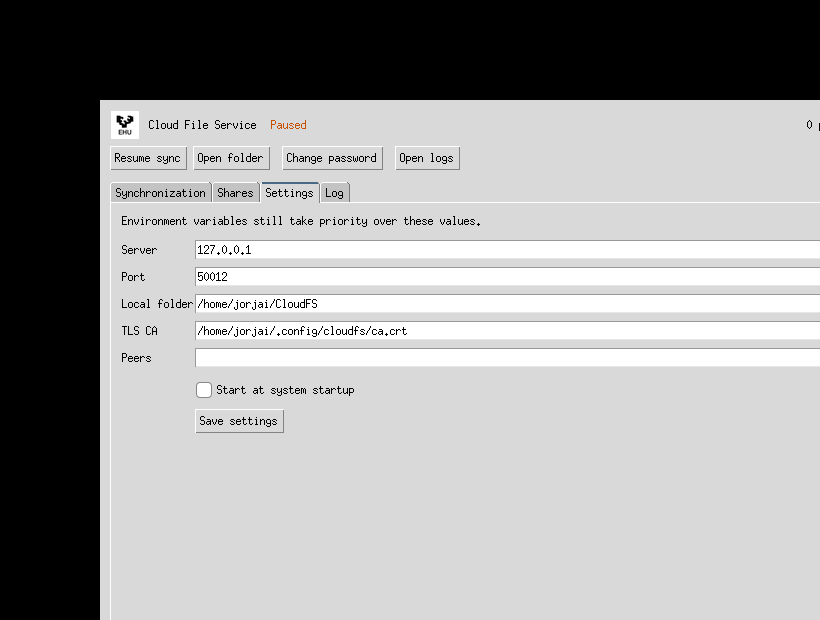
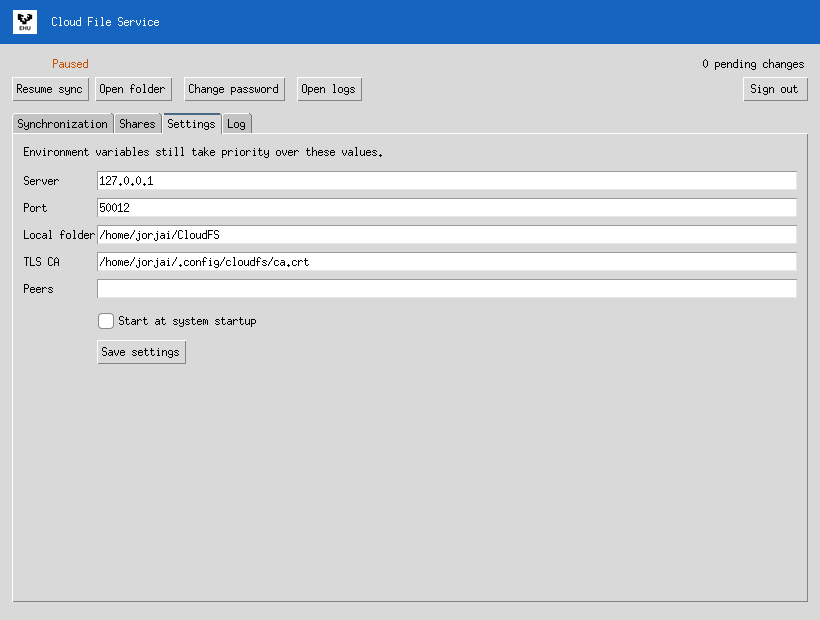
fix: remove black border from client screenshots; recapture shares tab

diff --git a/gui_app.py b/gui_app.py
@@ -31,6 +31,12 @@ def _open_path(path):
         subprocess.Popen(["xdg-open", target])
 
 
+try:
+    from theme import EHU_BLUE
+except Exception:
+    EHU_BLUE = "#1565C0"
+
+
 class GuiApp:
     """Main Tk application, all widget access stays on the main thread."""
 
@@ -88,22 +94,29 @@ class GuiApp:
 
     def _build_login(self):
         self._clear()
-        self.login_frame = ttk.Frame(self.root, padding=20)
-        self.login_frame.pack(fill="both", expand=True)
-        header = ttk.Frame(self.login_frame)
-        header.grid(row=0, column=0, columnspan=3, pady=(0, 15), sticky="w")
+        # Brand header bar
+        brand_bar = tk.Frame(self.root, bg=EHU_BLUE, height=52)
+        brand_bar.pack(fill="x")
+        brand_bar.pack_propagate(False)
         try:
             import branding
 
-            self._logo_image = branding.photo_image(root=self.root, size=(36, 36))
-            ttk.Label(header, image=self._logo_image).pack(side="left", padx=(0, 10))
+            self._logo_image = branding.photo_image(root=self.root, size=(32, 32))
+            tk.Label(brand_bar, image=self._logo_image, bg=EHU_BLUE).pack(side="left", padx=14, pady=10)
         except Exception:
             pass
+        tk.Label(brand_bar, text="Cloud File Service", bg=EHU_BLUE, fg="white",
+                 font=("TkDefaultFont", 14, "bold")).pack(side="left", pady=10)
+        tk.Label(brand_bar, text="· UPV/EHU", bg=EHU_BLUE, fg="#B0FBC1",
+                 font=("TkDefaultFont", 11)).pack(side="left", padx=(6, 0), pady=10)
+
+        self.login_frame = ttk.Frame(self.root, padding=24)
+        self.login_frame.pack(fill="both", expand=True)
         ttk.Label(
-            header,
-            text="Cloud File Service",
-            font=("TkDefaultFont", 18, "bold"),
-        ).pack(side="left")
+            self.login_frame,
+            text="Sign in",
+            font=("TkDefaultFont", 16, "bold"),
+        ).grid(row=0, column=0, columnspan=3, pady=(0, 12), sticky="w")
 
         self.server_var = tk.StringVar(value=self.config.server)
         self.port_var = tk.StringVar(value=str(self.config.port))
@@ -266,18 +279,29 @@ class GuiApp:
 
     def _build_main(self):
         self._clear()
-        self.main_frame = ttk.Frame(self.root, padding=10)
-        self.main_frame.pack(fill="both", expand=True)
-        top = ttk.Frame(self.main_frame)
-        top.pack(fill="x")
+        brand_bar = tk.Frame(self.root, bg=EHU_BLUE, height=44)
+        brand_bar.pack(fill="x")
+        brand_bar.pack_propagate(False)
         try:
             import branding
 
-            self._logo_image_main = branding.photo_image(root=self.root, size=(28, 28))
-            ttk.Label(top, image=self._logo_image_main).pack(side="left", padx=(0, 8))
+            self._logo_image_main = branding.photo_image(root=self.root, size=(24, 24))
+            tk.Label(brand_bar, image=self._logo_image_main, bg=EHU_BLUE).pack(side="left", padx=12, pady=10)
         except Exception:
             pass
-        ttk.Label(top, text="Cloud File Service", font=("TkDefaultFont", 13, "bold")).pack(side="left")
+        tk.Label(brand_bar, text="Cloud File Service", bg=EHU_BLUE, fg="white",
+                 font=("TkDefaultFont", 12, "bold")).pack(side="left", pady=10)
+        self.main_frame = ttk.Frame(self.root, padding=12)
+        self.main_frame.pack(fill="both", expand=True)
+        top = ttk.Frame(self.main_frame)
+        top.pack(fill="x")
+        self.status_var = tk.StringVar(value="Connected")
+        self.endpoint_var = tk.StringVar(value="")
+        self.pending_var = tk.StringVar(value="0 pending changes")
+        self.status_pill = ttk.Label(top, textvariable=self.status_var, font=("TkDefaultFont", 11, "bold"), foreground="#3B8719")
+        self.status_pill.pack(side="left")
+        ttk.Label(top, textvariable=self.endpoint_var).pack(side="left", padx=12)
+        ttk.Label(top, textvariable=self.pending_var).pack(side="right")
         self.status_var = tk.StringVar(value="Connected")
         self.endpoint_var = tk.StringVar(value="")
         self.pending_var = tk.StringVar(value="0 pending changes")

diff --git a/server_admin.py b/server_admin.py
@@ -197,13 +197,13 @@ class AdminHandler(BaseHTTPRequestHandler):
         if session is not None:
             nav = """
             <aside class="sidebar">
-              <a href="/">Status</a>
-              <a href="/users">Users</a>
-              <a href="/shares">Shares</a>
-              <a href="/settings">Settings</a>
+              <a href="/"><svg viewBox="0 0 24 24" fill="none" stroke="currentColor" stroke-width="1.8" class="icon"><path d="M3 12l2-2m0 0l7-7 7 7M5 10v10a1 1 0 001 1h3m10-11l2 2m-2-2v10a1 1 0 01-1 1h-3m-6 0a1 1 0 001-1v-4a1 1 0 011-1h2a1 1 0 011 1v4a1 1 0 001 1m-6 0h6"/></svg>Status</a>
+              <a href="/users"><svg viewBox="0 0 24 24" fill="none" stroke="currentColor" stroke-width="1.8" class="icon"><path d="M17 21v-2a4 4 0 00-4-4H5a4 4 0 00-4 4v2M9 11a4 4 0 100-8 4 4 0 000 8zM23 21v-2a4 4 0 00-3-3.87M16 3.13a4 4 0 010 7.75"/></svg>Users</a>
+              <a href="/shares"><svg viewBox="0 0 24 24" fill="none" stroke="currentColor" stroke-width="1.8" class="icon"><path d="M4 12v8a2 2 0 002 2h12a2 2 0 002-2v-8M16 6l-4-4-4 4M12 2v13"/></svg>Shares</a>
+              <a href="/settings"><svg viewBox="0 0 24 24" fill="none" stroke="currentColor" stroke-width="1.8" class="icon"><path d="M12 15a3 3 0 100-6 3 3 0 000 6zM19.4 15a1.65 1.65 0 00.33 1.82l.06.06a2 2 0 01-2.83 2.83l-.06-.06a1.65 1.65 0 00-1.82-.33 1.65 1.65 0 00-1 1.51V21a2 2 0 01-4 0v-.09A1.65 1.65 0 009 19.4a1.65 1.65 0 00-1.82.33l-.06.06a2 2 0 01-2.83-2.83l.06-.06A1.65 1.65 0 004.68 15a1.65 1.65 0 00-1.51-1H3a2 2 0 010-4h.09A1.65 1.65 0 004.6 9a1.65 1.65 0 00-.33-1.82l-.06-.06a2 2 0 012.83-2.83l.06.06A1.65 1.65 0 009 4.68a1.65 1.65 0 001-1.51V3a2 2 0 014 0v.09a1.65 1.65 0 001 1.51 1.65 1.65 0 001.82-.33l.06-.06a2 2 0 012.83 2.83l-.06.06A1.65 1.65 0 0019.4 9a1.65 1.65 0 001.51 1H21a2 2 0 010 4h-.09a1.65 1.65 0 00-1.51 1z"/></svg>Settings</a>
               <form method="post" action="/logout">
                 <input type="hidden" name="csrf" value="{csrf}">
-                <button type="submit" class="secondary">Sign out</button>
+                <button type="submit" class="secondary"><svg viewBox="0 0 24 24" fill="none" stroke="currentColor" stroke-width="1.8" class="icon"><path d="M9 21H5a2 2 0 01-2-2V5a2 2 0 012-2h4M16 17l5-5-5-5M21 12H9"/></svg>Sign out</button>
               </form>
             </aside>
             """.format(csrf=html.escape(session["csrf"]))
@@ -254,6 +254,7 @@ form.inline {{ display: inline; }}
 .sidebar a, .sidebar button {{ display: block; padding: 8px 12px; border-radius: 6px; color: var(--fg); text-decoration: none; font-size: 14px; background: transparent; border: none; text-align: left; cursor: pointer; width: 100%; }}
 .sidebar a:hover, .sidebar button:hover {{ background: rgba(21,101,192,0.08); color: var(--ehu-blue); }}
 .sidebar form {{ margin: 0; }}
+.sidebar svg.icon {{ width: 16px; height: 16px; margin-right: 8px; vertical-align: -3px; }}
 main {{ flex: 1; min-width: 0; }}
 @media (max-width: 720px) {{
   .layout {{ flex-direction: column; }}

diff --git a/theme.py b/theme.py
@@ -50,9 +50,12 @@ def apply(root):
     style.configure(".", font=(family, 10), background=BG, foreground=FG)
     style.configure("TFrame", background=BG)
     style.configure("TLabel", background=BG, foreground=FG)
-    style.configure("TButton", padding=(10, 6), font=(family, 10))
-    style.configure("Primary.TButton", background=ACCENT, foreground="white")
+    style.configure("TButton", padding=(12, 7), font=(family, 10), relief="flat")
+    style.map("TButton", background=[("active", EHU_GRAY_LIGHT)], relief=[("pressed", "sunken")])
+    style.configure("Primary.TButton", background=ACCENT, foreground="white", font=(family, 10, "bold"))
     style.map("Primary.TButton", background=[("active", EHU_BLUE_DARK)])
+    style.configure("Secondary.TButton", background="white", foreground=ACCENT, borderwidth=1, relief="solid")
+    style.map("Secondary.TButton", background=[("active", EHU_CREAM)])
     style.configure("TEntry", padding=4)
     style.configure("TCombobox", padding=4)
     style.configure("TNotebook", background=BG)

diff --git a/gui_fich.py b/gui_fich.py
@@ -60,6 +60,10 @@ def main(argv=None):
         lock.release()
         return 1
 
+    root.geometry("1000x700")
+    root.minsize(800, 600)
+    root.configure(highlightthickness=0, borderwidth=0)
+
     import theme
 
     theme.apply(root)
